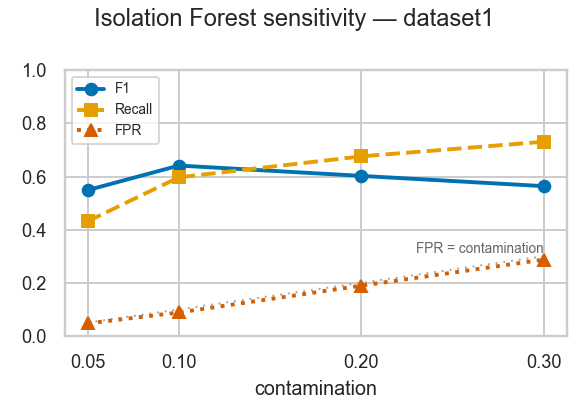
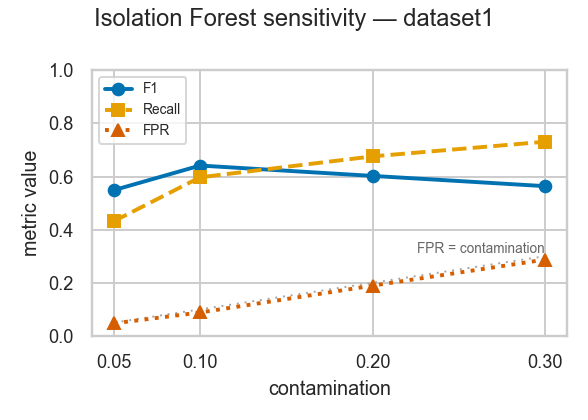
fix: corrections from adversarial verification pass on Ch7 + D2 EDA docs
A 7-agent verification workflow recomputed every numeric claim in the two
new findings docs from raw data. 104/104 Ch7 point-values and the full
D2 stats CSV reproduced exactly; this commit fixes the discrepancies it
did find:

- ch3_d2_eda_findings.md: the sign-flip claim was wrong -- only
  len_chars, n_quotes, n_flags genuinely invert between corpora;
  head_is_lotl / has_lotl_bin / n_pipes are benign-leaning on BOTH
  datasets (D1 recomputed: head_is_lotl r=-0.046, n_pipes r=-0.166).
  Para 3 rewritten as inversion vs reinforcement; takeaway list fixed.
  Also: b64 bound 0.03->0.033 (b64_run_len is 0.0322), n_pipes table
  effect -0.107->-0.106 (double-rounding), AUC 0.415 split protocol
  noted (train; 0.43 holdout), attack-feature list reordered by effect.
- ch7_rf_if_sensitivity_findings.md: overstated precision bounds
  loosened ("<0.002" fails on D2 at 0.0025; (400,24) is not a grid cell
  so "within 0.002 of best" was underivable; "tripling" holds on D1
  only; band widths and FPR cell choice made exact).
- ch7_rf_if_sweeps.py: FIG dir mkdir for self-sufficiency; IF figure
  gains a y-axis label (both PNGs regenerated from the committed JSON,
  data unchanged).
- ch3_eda_figures.py: stale feature name char_count -> len_chars in
  docstring.

diff --git a/analysis/ch7_rf_if_sweeps.py b/analysis/ch7_rf_if_sweeps.py
@@ -49,6 +49,7 @@ from src.models import build_model                           # noqa: E402
 RESULTS = ROOT / "results"
 FIG = ROOT / "report" / "figures"
 RESULTS.mkdir(exist_ok=True)
+FIG.mkdir(parents=True, exist_ok=True)
 sns.set_theme(style="whitegrid", font_scale=0.85)
 
 # Okabe-Ito hues (colorblind-safe; validated with the dataviz six-checks
@@ -159,6 +160,7 @@ def plot_if(dataset, rows):
         ax.plot(xs, [r[metric] for r in rows], marker=marker, linestyle=style,
                 color=color, linewidth=2, markersize=6, label=label)
     ax.set_xlabel("contamination")
+    ax.set_ylabel("metric value")
     ax.set_xticks(xs)
     ax.set_ylim(0, 1)
     ax.legend(fontsize=7)

diff --git a/analysis/ch3_eda_figures.py b/analysis/ch3_eda_figures.py
@@ -11,7 +11,7 @@ markdown (ch3_eda.py owns report/ch3_eda_findings.md).
 
 One deliberate change from the originals: the variance-by-label chart uses a
 symlog y-axis (same convention as ch3_eda.py's variance figure). On a linear
-axis char_count's variance (~10^4) flattens every other bar to invisible.
+axis len_chars's variance (~10^4) flattens every other bar to invisible.
 
 Outputs, per dataset:
   report/figures/ch3_length_hist_<dataset>.png

diff --git a/report/ch3_d2_eda_findings.md b/report/ch3_d2_eda_findings.md
@@ -17,8 +17,9 @@ the mechanism: honeypot traffic is dominated by short scripted fingerprinting
 probes (`uname -a`, `cat /proc/cpuinfo`-style one-liners produce the sharp spike
 at ~10 characters) punctuated by rare, enormous dropper payloads (the clipped
 mass at the right edge of the figure). A length-alone probe now scores **AUC
-0.415** — not merely weak, as its 0.611 on Dataset 1 was, but *below chance in
-the direction that worked on Dataset 1*. The "attacks are longer" rule learned
+0.415** on the train split (0.43 on the held-out test) — not merely weak, as
+its 0.611 on Dataset 1's holdout was, but *below chance in the direction that
+worked on Dataset 1*. The "attacks are longer" rule learned
 from curated PoC one-liners is answered by live traffic with the opposite sign,
 and this single reversal is the cleanest preview of the cross-dataset transfer
 collapse quantified in Chapter 8.2.
@@ -36,10 +37,10 @@ AUC of 0.617 — IP addresses, ports, hex identifiers, and numbered payload
 filenames saturate honeypot traffic), followed by `has_fetch_bin` (21.9% of
 attacks invoke `wget`/`curl`/`tftp`-class binaries vs 3.4% of benign),
 `has_url` (13.6% vs 2.4%), `has_hidden_path` (14.7% vs 4.1% — dot-directories
-for staging), `n_abs_paths`, `n_sensitive_paths` (attack mean 0.113 vs 0.032 —
-`/etc/passwd`, `/proc` reconnaissance), `has_shell_bin`, `head_is_privesc`, and
-`has_ipv4`. Base64 features, prominent on Dataset 1, are nearly informationless
-here by rank (|r| ≤ 0.03) despite a huge attack-side variance in `b64_run_len`
+for staging), `n_abs_paths`, `has_shell_bin`, `head_is_privesc`,
+`n_sensitive_paths` (attack mean 0.113 vs 0.032 — `/etc/passwd`, `/proc`
+reconnaissance), and `has_ipv4`. Base64 features, prominent on Dataset 1, are nearly informationless
+here by rank (|r| ≤ 0.033) despite a huge attack-side variance in `b64_run_len`
 (1,059 vs 68): encoded payloads exist in the honeypot stream but are too rare
 to move the distribution's body.
 
@@ -54,22 +55,29 @@ to move the distribution's body.
 | `head_is_lotl` | 0.013 | 0.131 | −0.118 | benign |
 | `has_url` | 0.136 | 0.024 | +0.113 | attack |
 | `n_quotes` | 0.31 | 0.78 | −0.112 | benign |
-| `n_pipes` | 0.09 | 0.32 | −0.107 | benign |
+| `n_pipes` | 0.09 | 0.32 | −0.106 | benign |
 
 The benign-leaning column of that table is the finding with the deepest
-modeling consequences, because it inverts Dataset 1's flagship attack markers.
-On Dataset 2, `head_is_lotl` (a command *led* by a living-off-the-land binary)
-is ten times more common in benign traffic (13.1% vs 1.3%), and `has_lotl_bin`,
-`n_pipes`, `n_quotes`, `n_flags`, and `has_long_flag` all point the same way.
-The explanation is the benign pool, not the attacks: real administrators piping
-`find` into `xargs`, quoting commit messages, and stacking long flags produce
-exactly the shell plumbing and LotL vocabulary that a curated benign corpus
-underrepresents, while Cowrie's scripted attackers issue terse, flagless
-probes. A model trained on Dataset 1 — where LotL vocabulary and plumbing
-density lean attack — meets the opposite conditional distribution here, which
-is the feature-level mechanism behind both the shell-vocabulary inversion Ch4
-documents and the D1→D2 F1 collapse; the cross-dataset distribution-shift
-analysis in Chapter 5.2 builds directly on these pairs.
+modeling consequences, and it splits into two mechanisms. Part is genuine
+**sign inversion** relative to Dataset 1: `len_chars` (r +0.247 there →
+−0.171 here), `n_quotes` (+0.081 → −0.112), and `n_flags` (+0.051 → −0.125)
+all leaned attack on the curated corpus and flip decisively benign on
+operational data. The rest is **reinforcement rather than reversal**:
+`head_is_lotl` (a command *led* by a living-off-the-land binary) was already a
+faint benign hint on Dataset 1 (r −0.046) and is ten times more common in
+benign traffic here (13.1% vs 1.3%, r −0.118), with `has_lotl_bin`, `n_pipes`,
+and the newly significant `has_long_flag` pointing benign on both corpora.
+The explanation is the benign pool, not the attacks: real administrators
+piping `find` into `xargs`, quoting commit messages, and stacking long flags
+produce exactly the shell plumbing and LotL vocabulary that a curated benign
+corpus underrepresents, while Cowrie's scripted attackers issue terse,
+flagless probes. Two consequences follow. Mere *presence* of LotL vocabulary
+is an anti-signal on both datasets — detection cannot ride on which binary
+appears, only on how it is used. And a model trained on Dataset 1 — where
+length, quoting, and flag density lean attack — meets the opposite conditional
+distribution here, which is the feature-level mechanism behind the D1→D2 F1
+collapse; the cross-dataset distribution-shift analysis in Chapter 5.2 builds
+directly on these pairs.
 
 The correlation heatmap (`ch3_corr_heatmap_dataset2.png`) shows a redundancy
 structure that is real but bounded, with no leakage-grade pairing. The
@@ -100,7 +108,7 @@ D2 holdout trailing its D1 counterpart (RF 0.758 vs 0.801 in the Ch7 grids;
 Isolation Forest ranking AUC 0.677 vs 0.812). Second, the direction reversals
 between the two datasets are not noise but a structural property of operational
 telemetry: any feature whose sign flips between corpora (`len_chars`,
-`n_pipes`, `head_is_lotl`) is a feature a cross-domain model must not lean on,
+`n_quotes`, `n_flags`) is a feature a cross-domain model must not lean on,
 and their combined weight in-domain explains why in-domain excellence coexists
 with transfer collapse. Third, the class-imbalance remedy is unchanged — the
 1:3 prevalence is identical by construction — but the *benign* side is where

diff --git a/report/ch7_rf_if_sensitivity_findings.md b/report/ch7_rf_if_sensitivity_findings.md
@@ -106,12 +106,13 @@ ensemble capacity: the model is robust — hard to break, hard to improve.
 | hyperparameter | chosen | rationale |
 |---|---|---|
 | `max_depth` | **24** (production) | The sweep shows depth ≈ 20 dominates both shallower (10) and unbounded (None) on **both** F1 and FPR, on **both** datasets; production 24 sits on this optimum. |
-| `n_estimators` | **400** (production) | On the ≥200 plateau (grid best at 500 leads 200 by <0.002 F1); 400 keeps train time ~3 s. |
+| `n_estimators` | **400** (production) | On the ≥200 plateau (grid best at 500 leads 200 by only 0.0017 F1 on D1 / 0.0025 on D2); 400 keeps train time ~3 s. |
 | `class_weight` | `balanced_subsample` (pinned) | The cost-sensitive imbalance remedy at 1:3 prevalence; not swept here — its role is analogous to XGBoost's `scale_pos_weight`, which Ben's sweep showed to be an FPR dial. |
 
 The production configuration (`n_estimators=400, max_depth=24`) was chosen
-before this sweep; the grid **validates** it — it sits inside the dominant
-plateau, within 0.002 F1 of the best swept cell (D1: 0.8006 / FPR 0.0310 at
+before this sweep; the grid **validates** it — (400, 24) is not itself a grid
+cell, but it is bracketed by the swept plateau cells (200/20 and 500/20),
+which sit within 0.003 F1 of each grid's best (D1: 0.8006 / FPR 0.0310 at
 500/20) — rather than contradicting it.
 
 ---
@@ -163,8 +164,8 @@ recall is still only 0.56.
 
 **The operating point is set for recall retention, not F1 — and the sweep
 shows why F1-optimising contamination would be the wrong choice.** Even the
-most permissive swept setting (c=0.30, tripling the F1-optimal false-alarm
-rate) retains only 73% (D1) / 56% (D2) of attacks — a stage-1 filter that
+most permissive swept setting (c=0.30, with 3.3× the F1-optimal false-alarm
+rate on D1 and 1.5× on D2) retains only 73% (D1) / 56% (D2) of attacks — a stage-1 filter that
 silently discards 27–44% of attacks caps the whole cascade's recall at that
 value, no matter how good stage 2 is. That is why the production cascade
 ignores `contamination` entirely and calibrates its clearing threshold on the
@@ -198,9 +199,9 @@ threshold, is the intended consumer of this model.
 
 | question | answer | evidence |
 |---|---|---|
-| Which hyperparameter most affects **F1**? | RF `max_depth` — but weakly | Largest RF swing on both datasets (D2: 0.7311 → 0.7584 across depth at n=500, Δ0.027); everything else is ≤0.01. |
-| Which hyperparameter most affects **FPR**? | IF `contamination` — by design | FPR 0.047 → 0.287 (D1), a 6× swing that tracks c one-for-one; RF's depth is second (0.031 vs 0.053, ~1.7×). |
-| Which model is more sensitive overall? | **Isolation Forest** | Its usable output depends entirely on threshold placement (F1 0.25 → 0.64 on D1 between the wrapper point and c=0.10); RF holds a ~0.02-wide F1 band across its whole grid. |
+| Which hyperparameter most affects **F1**? | RF `max_depth` — but weakly | Largest RF swing on both datasets (D2: 0.7311 → 0.7584 across depth at n=500, Δ0.027); everything else is ≤0.012. |
+| Which hyperparameter most affects **FPR**? | IF `contamination` — by design | FPR 0.047 → 0.287 (D1), a 6× swing that tracks c one-for-one; RF's depth is second (0.031 vs 0.052 at n=500, ~1.7×). |
+| Which model is more sensitive overall? | **Isolation Forest** | Its usable output depends entirely on threshold placement (F1 0.25 → 0.64 on D1 between the wrapper point and c=0.10); RF holds a narrow F1 band across its whole grid (0.021 D1 / 0.027 D2). |
 
 The same division of labour Ben found for XGBoost/CNN reappears here:
 **accuracy is set by the representation, false alarms by a purpose-built
